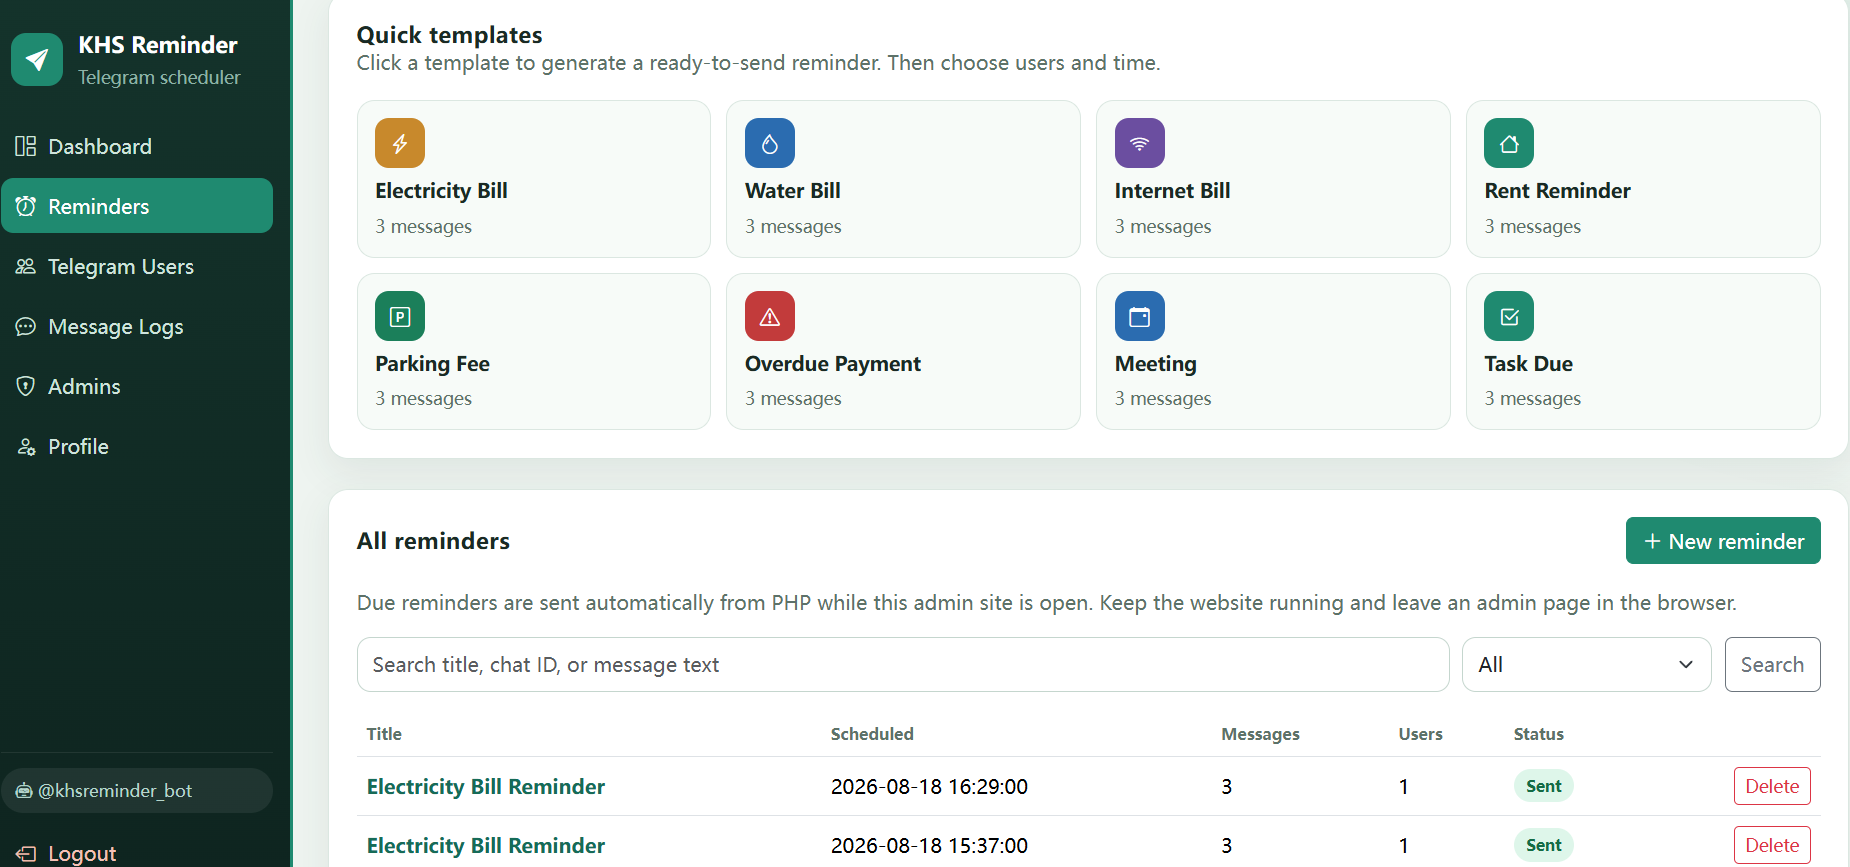
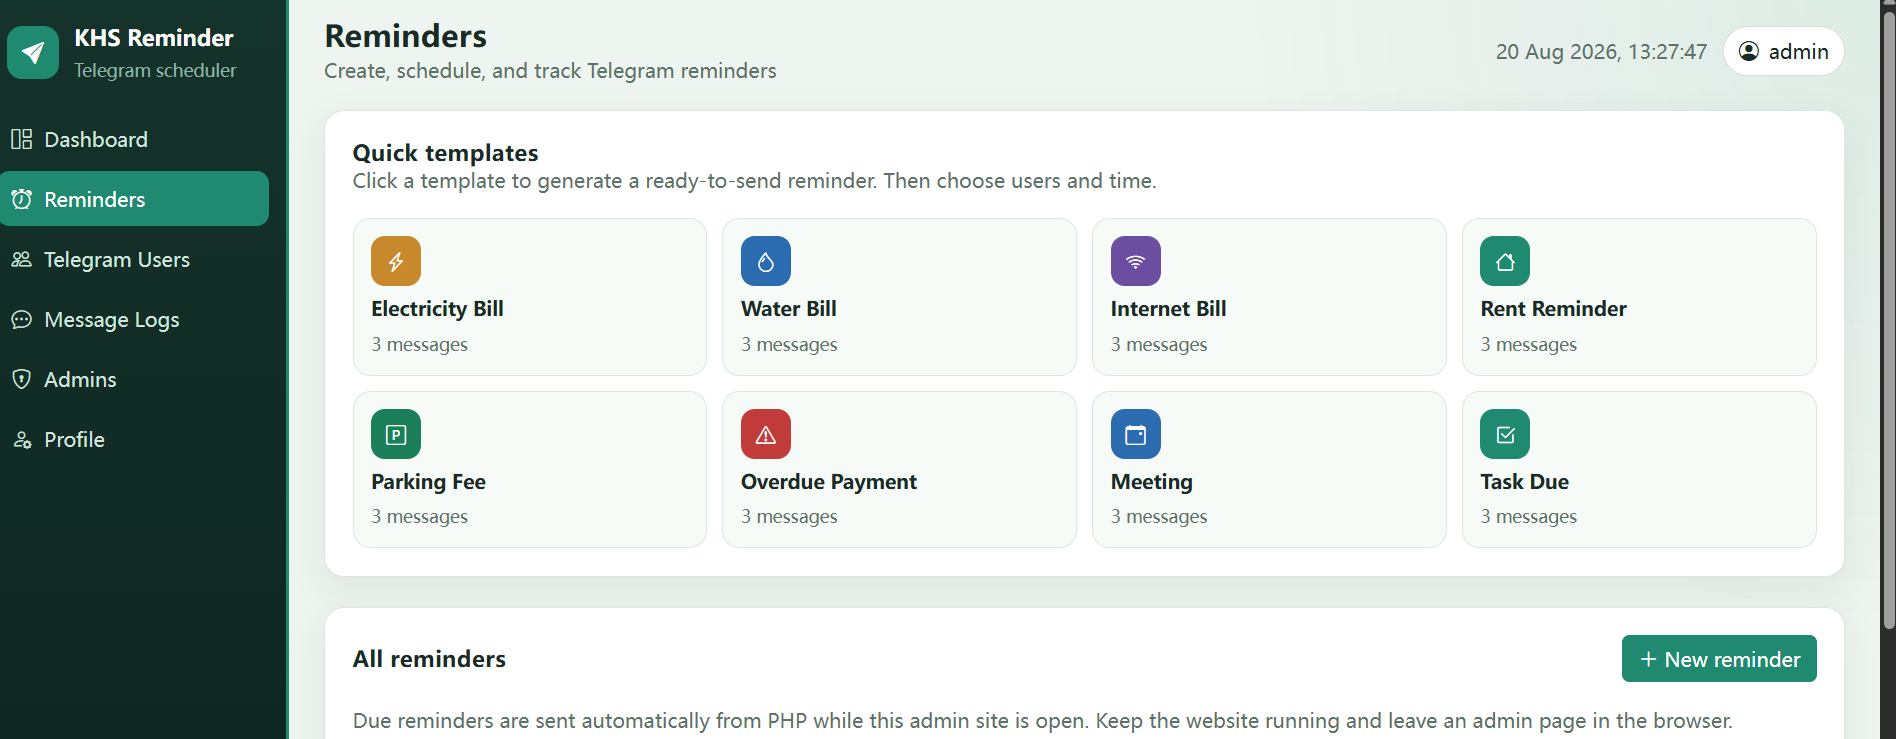
picture

diff --git a/README.md b/README.md
@@ -6,6 +6,10 @@ Telegram 定时提醒管理系统。适合学习 **Core PHP + MySQL + Cron + Tel
 
 ## Screenshots
 
+### Login
+
+![Login](docs/screenshots/login.png)
+
 ### Dashboard
 
 ![Dashboard](docs/screenshots/dashboard.png)
@@ -14,13 +18,9 @@ Telegram 定时提醒管理系统。适合学习 **Core PHP + MySQL + Cron + Tel
 
 ![Reminders](docs/screenshots/reminders.png)
 
-### Telegram Users
+### Admins
 
-![Telegram Users](docs/screenshots/telegram-users.png)
-
-### Message Logs
-
-![Message Logs](docs/screenshots/message-logs.png)
+![Admins](docs/screenshots/admins.png)
 
 ## Features
 
